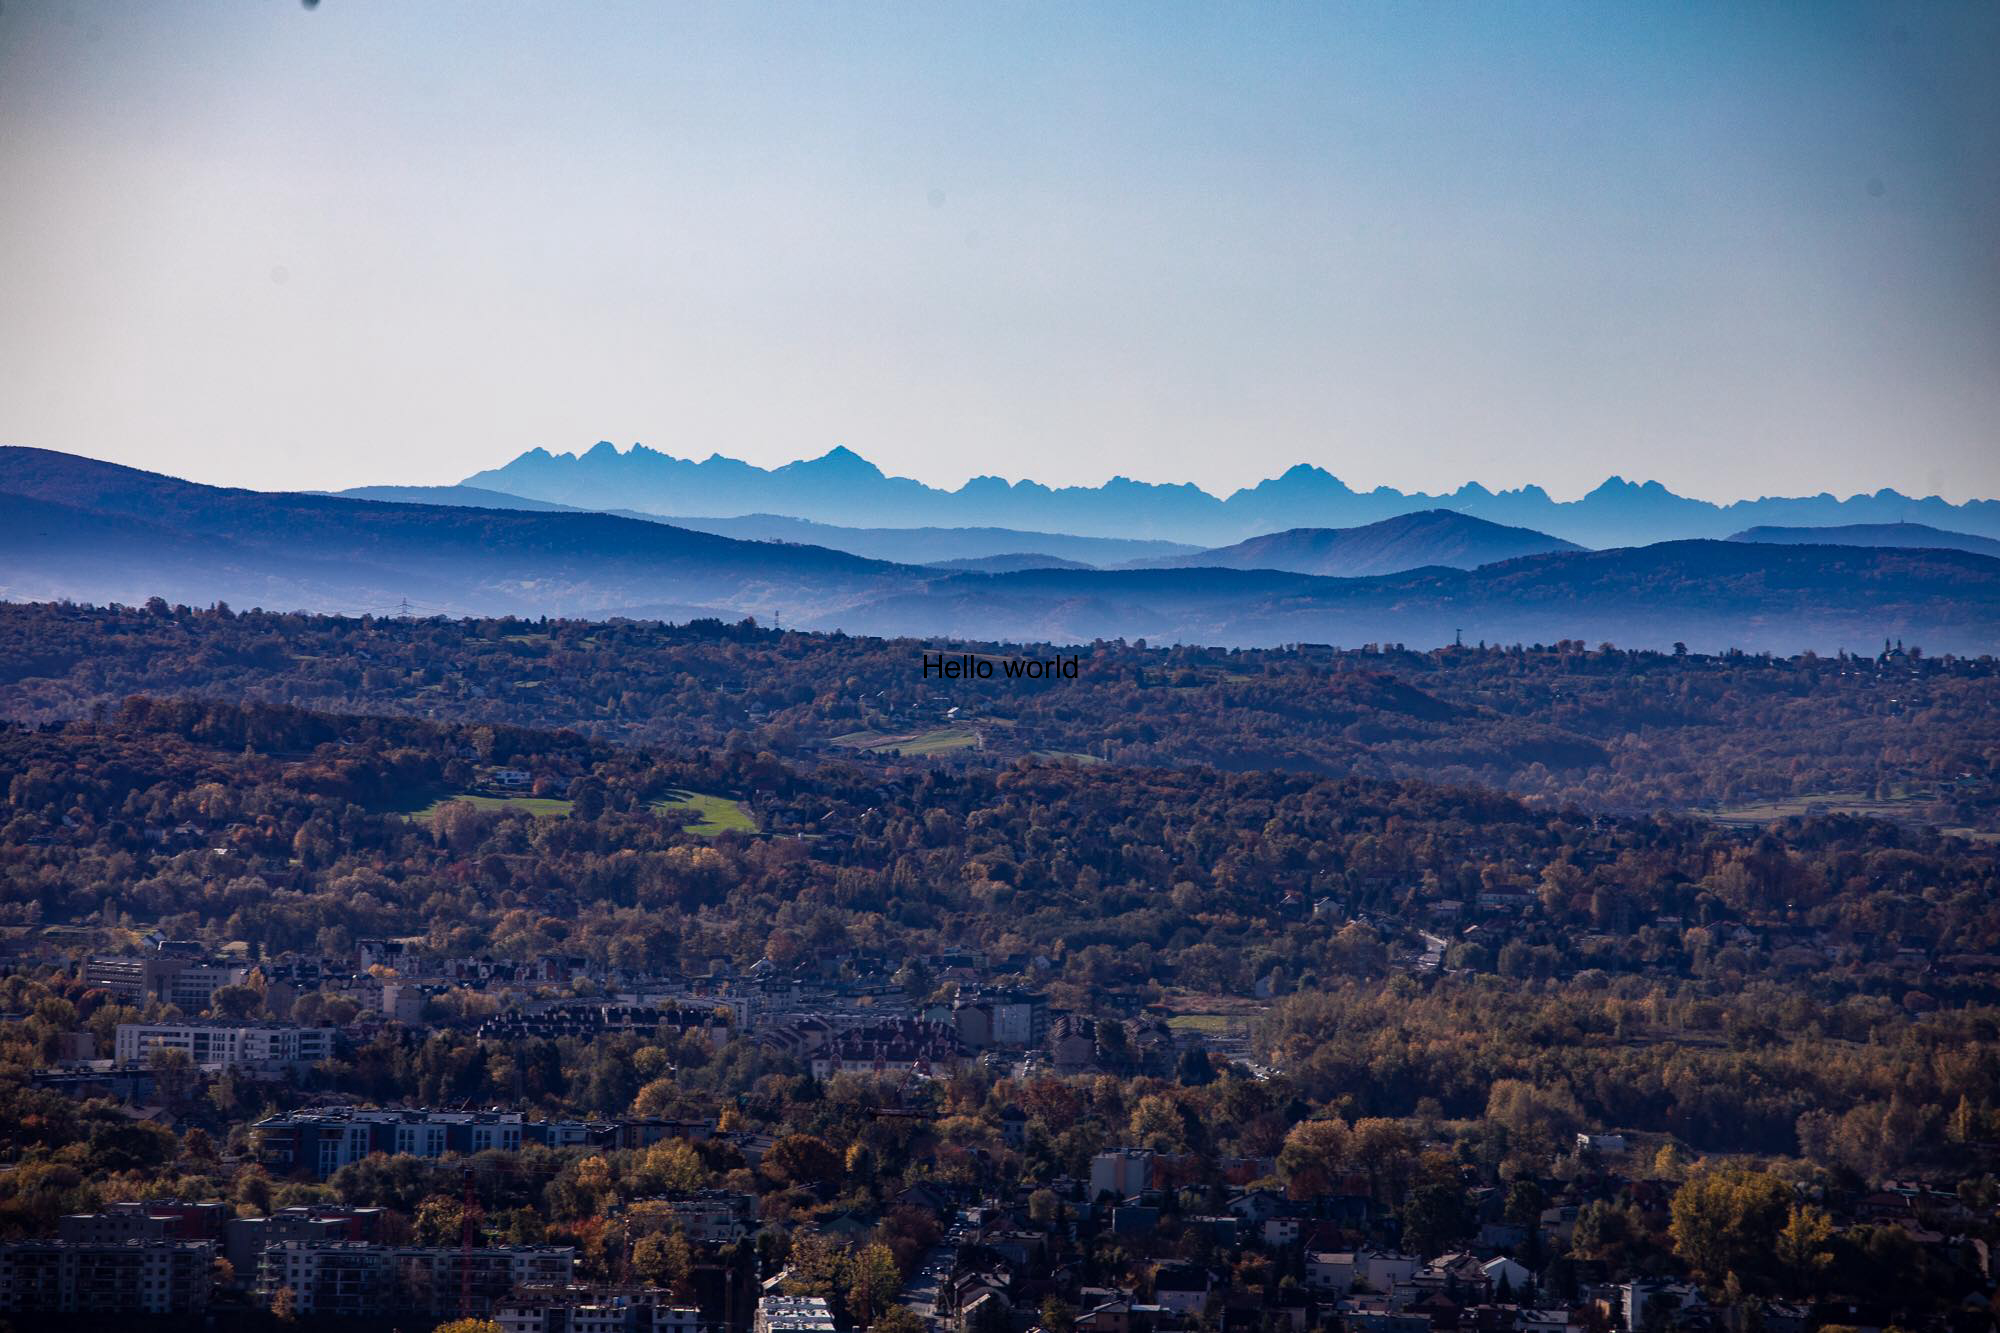
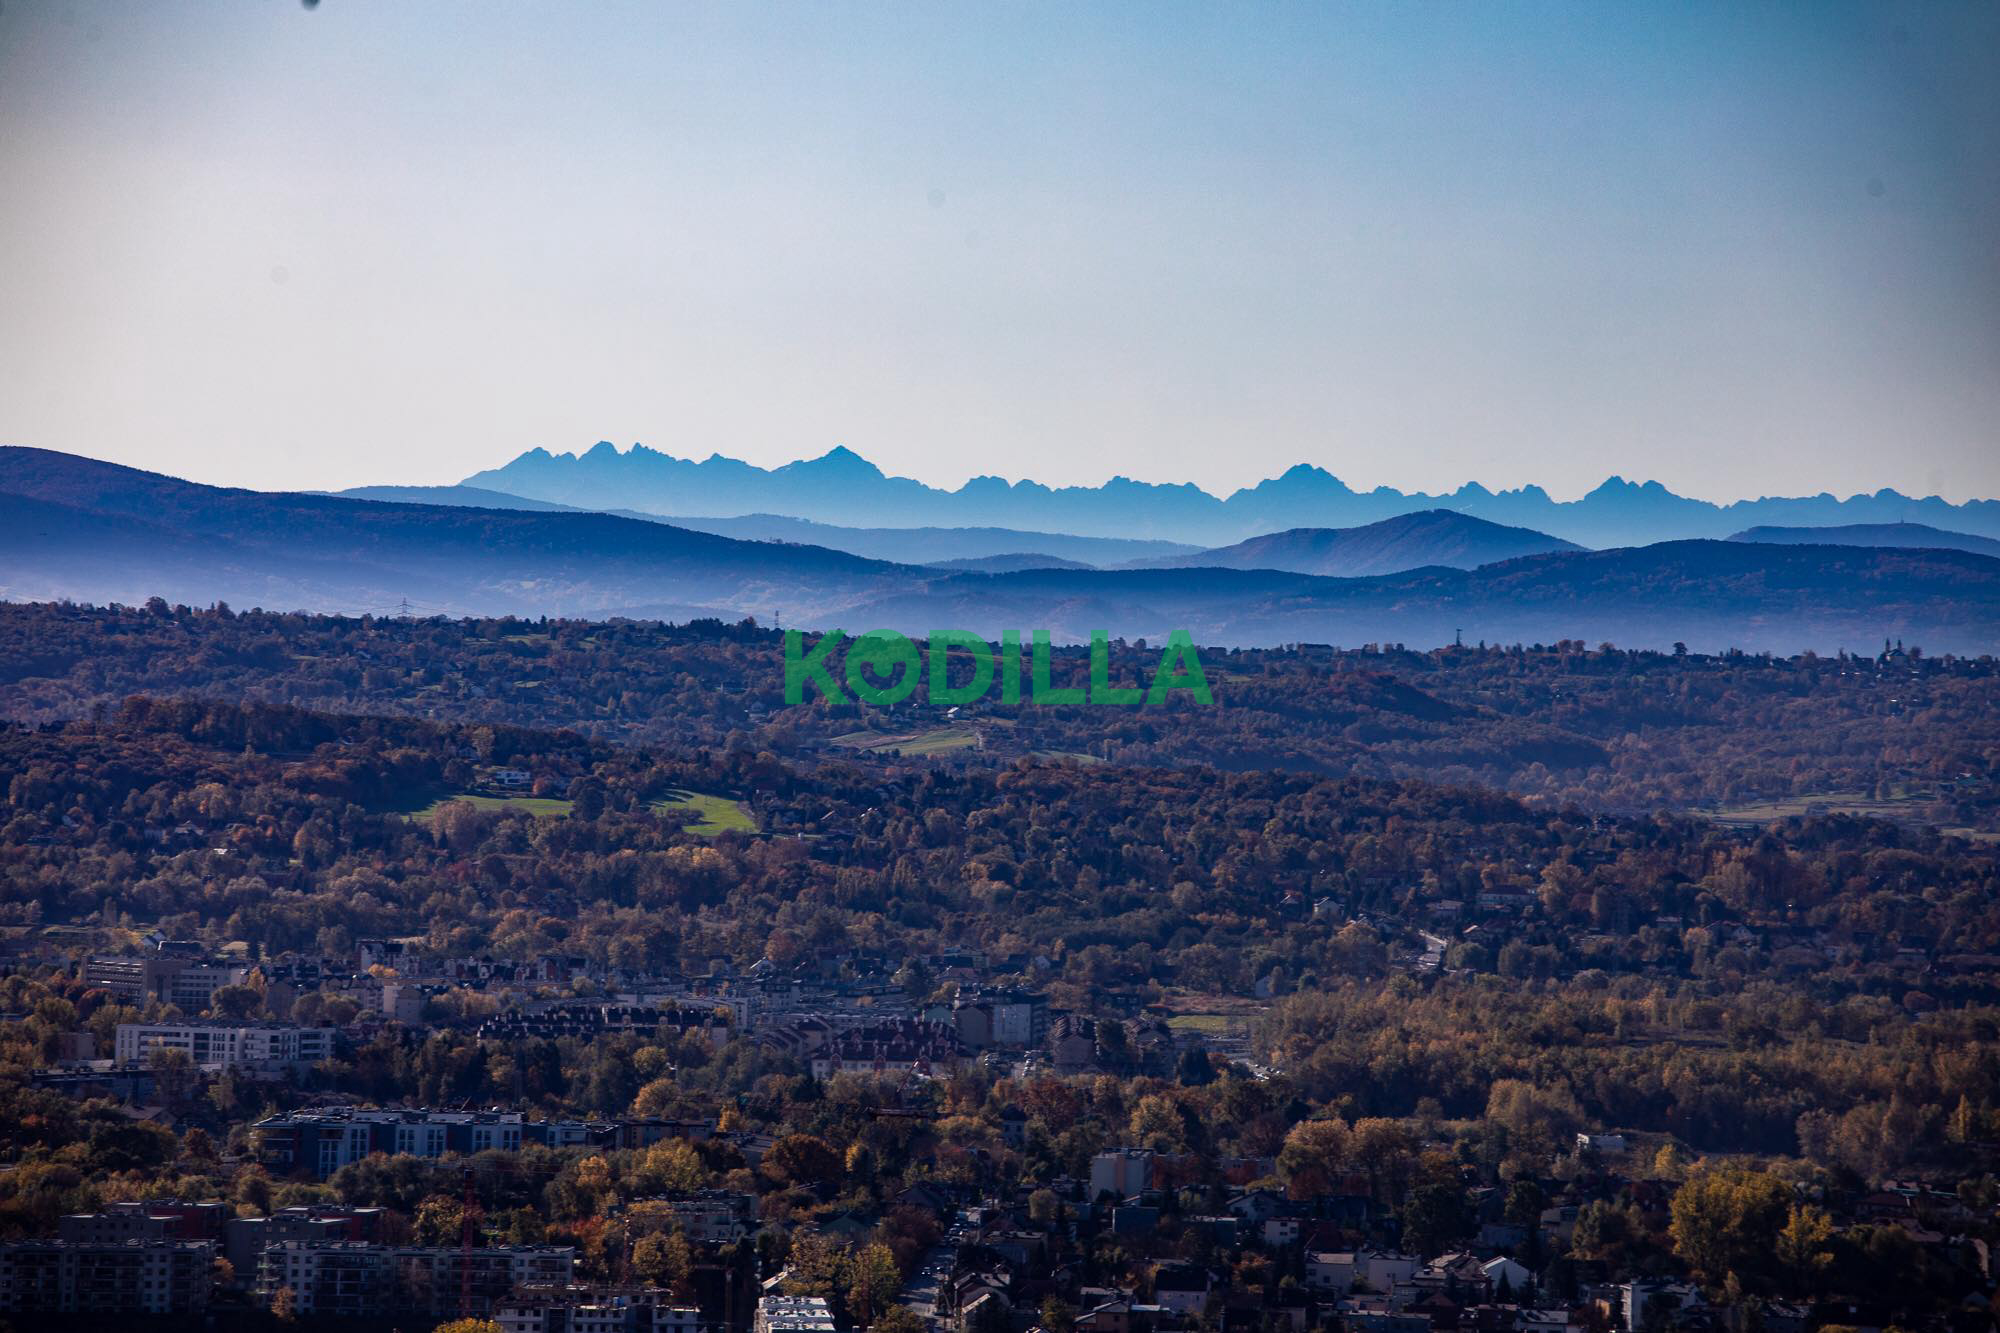
Add communication with the user

Changed region(s): [[0.372, 0.4614, 0.62, 0.5536]]

diff --git a/app.js b/app.js
@@ -1,33 +1,81 @@
 const Jimp = require('jimp');
+const inquirer = require('inquirer');
 
 const addTextWatermarkToImage = async function(inputFile, outputFile, text) {
   const image = await Jimp.read(inputFile);
   const font = await Jimp.loadFont(Jimp.FONT_SANS_32_BLACK);
   const textData = {
-    text,
+    text: text,
     alignmentX: Jimp.HORIZONTAL_ALIGN_CENTER,
     alignmentY: Jimp.VERTICAL_ALIGN_MIDDLE,
   };
 
   image.print(font, 0, 0, textData, image.getWidth(), image.getHeight());
+  image.quality(100).write(outputFile)
+};
+
+const addImageWatermarkToImage = async function(inputFile, outputFile, watermarkFile) {
+  const image = await Jimp.read(inputFile);
+  const watermark = await Jimp.read(watermarkFile);
+  const x = image.getWidth() / 2 - watermark.getWidth() / 2;
+  const y = image.getHeight() / 2 - watermark.getHeight() / 2;
+
+  image.composite(watermark, x, y, {
+    mode: Jimp.BLEND_SOURCE_OVER,
+    opacitySource: 0.5,
+  });
   image.quality(100).write(outputFile);
 };
 
-addTextWatermarkToImage('./test.jpg', './test-with-watermark.jpg', 'Hello world')
+const prepareOutputFilename = (filename) => {
+  const [ name, ext ] = filename.split('.');
+  return `${name}-with-watermark.${ext}`;
+};
 
-const addImageWatermarkToImage = async function(inputFile, outputFile, watermarkFile) {
-    const image = await Jimp.read(inputFile);
-    const watermark = await Jimp.read(watermarkFile);
-    const x = image.getWidth() / 2 - watermark.getWidth() / 2;
-    const y = image.getHeight() / 2 - watermark.getHeight() / 2;
-  
-    image.composite(watermark, x, y, {
-      mode: Jimp.BLEND_SOURCE_OVER,
-      opacitySource: 0.5,
-    });
-    image.quality(100).write(outputFile);
-  };
-  
-  addImageWatermarkToImage('./test.jpg', './test-with-watermark2.jpg', './logo.png');
+const startApp = async () => {
 
-  const inquirer = require('inquirer');
+  // Ask if user is ready
+  const answer = await inquirer.prompt([{
+      name: 'start',
+      message: 'Hi! Welcome to "Watermark manager". Copy your image files to `/img` folder. Then you\'ll be able to use them in the app. Are you ready?',
+      type: 'confirm'
+    }]);
+
+  // if answer is no, just quit the app
+  if(!answer.start) process.exit();
+
+  // ask about input file and watermark type
+  const options = await inquirer.prompt([{
+    name: 'inputImage',
+    type: 'input',
+    message: 'What file do you want to mark?',
+    default: 'test.jpg',
+  }, {
+    name: 'watermarkType',
+    type: 'list',
+    choices: ['Text watermark', 'Image watermark'],
+  }]);
+
+  if(options.watermarkType === 'Text watermark') {
+    const text = await inquirer.prompt([{
+      name: 'value',
+      type: 'input',
+      message: 'Type your watermark text:',
+    }])
+    options.watermarkText = text.value;
+    addTextWatermarkToImage('./img/' + options.inputImage, './img/' + prepareOutputFilename(options.inputImage), options.watermarkText);
+  }
+  else {
+    const image = await inquirer.prompt([{
+      name: 'filename',
+      type: 'input',
+      message: 'Type your watermark name:',
+      default: 'logo.png',
+    }])
+    options.watermarkImage = image.filename;
+    addImageWatermarkToImage('./img/' + options.inputImage, './img/' + prepareOutputFilename(options.inputImage), './img/' + options.watermarkImage);
+  }
+
+};
+
+startApp();
